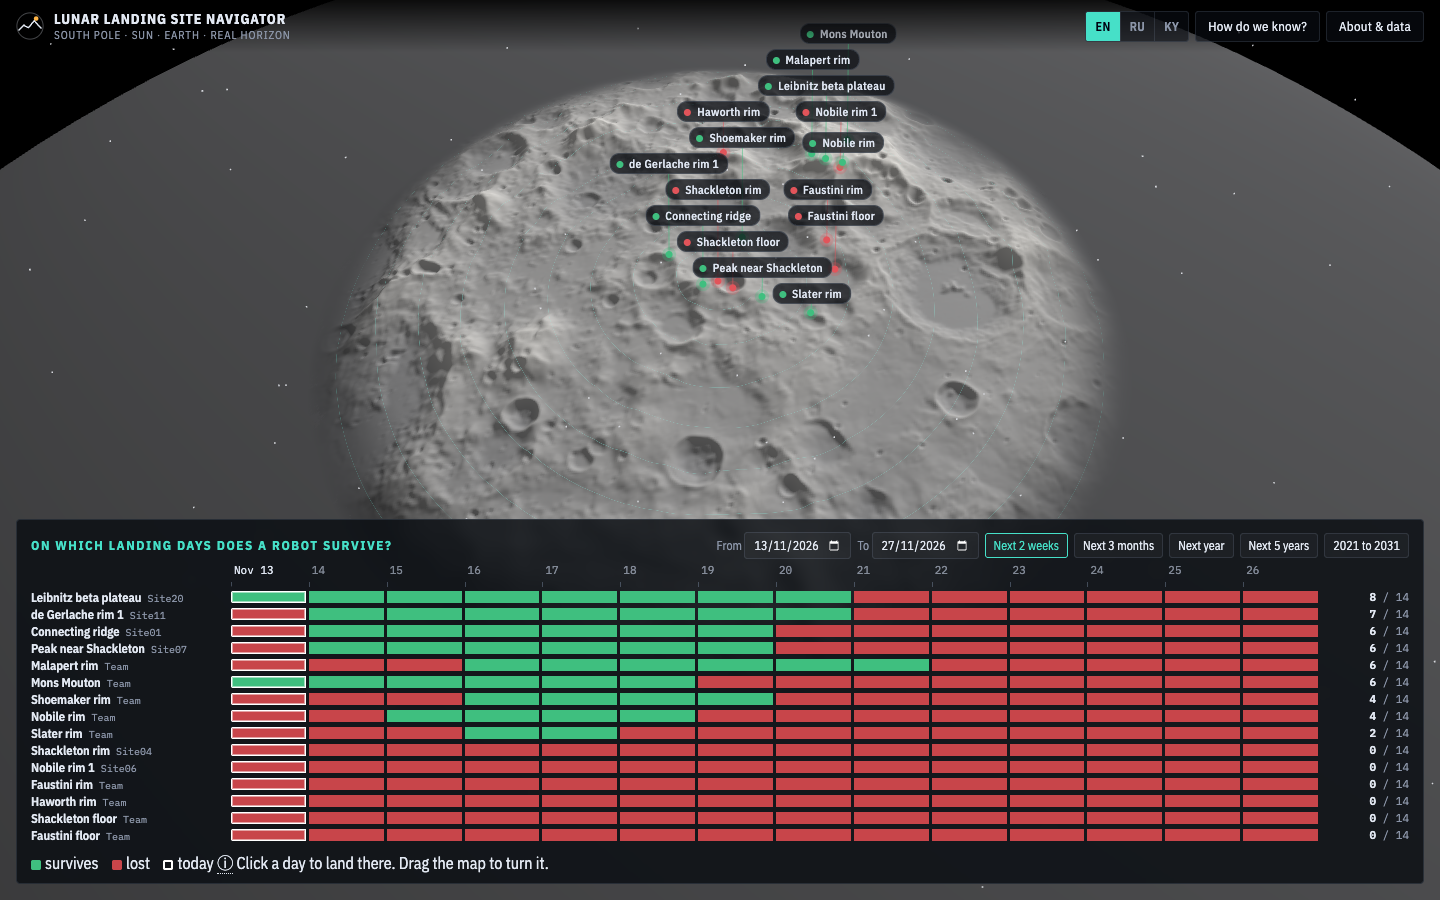
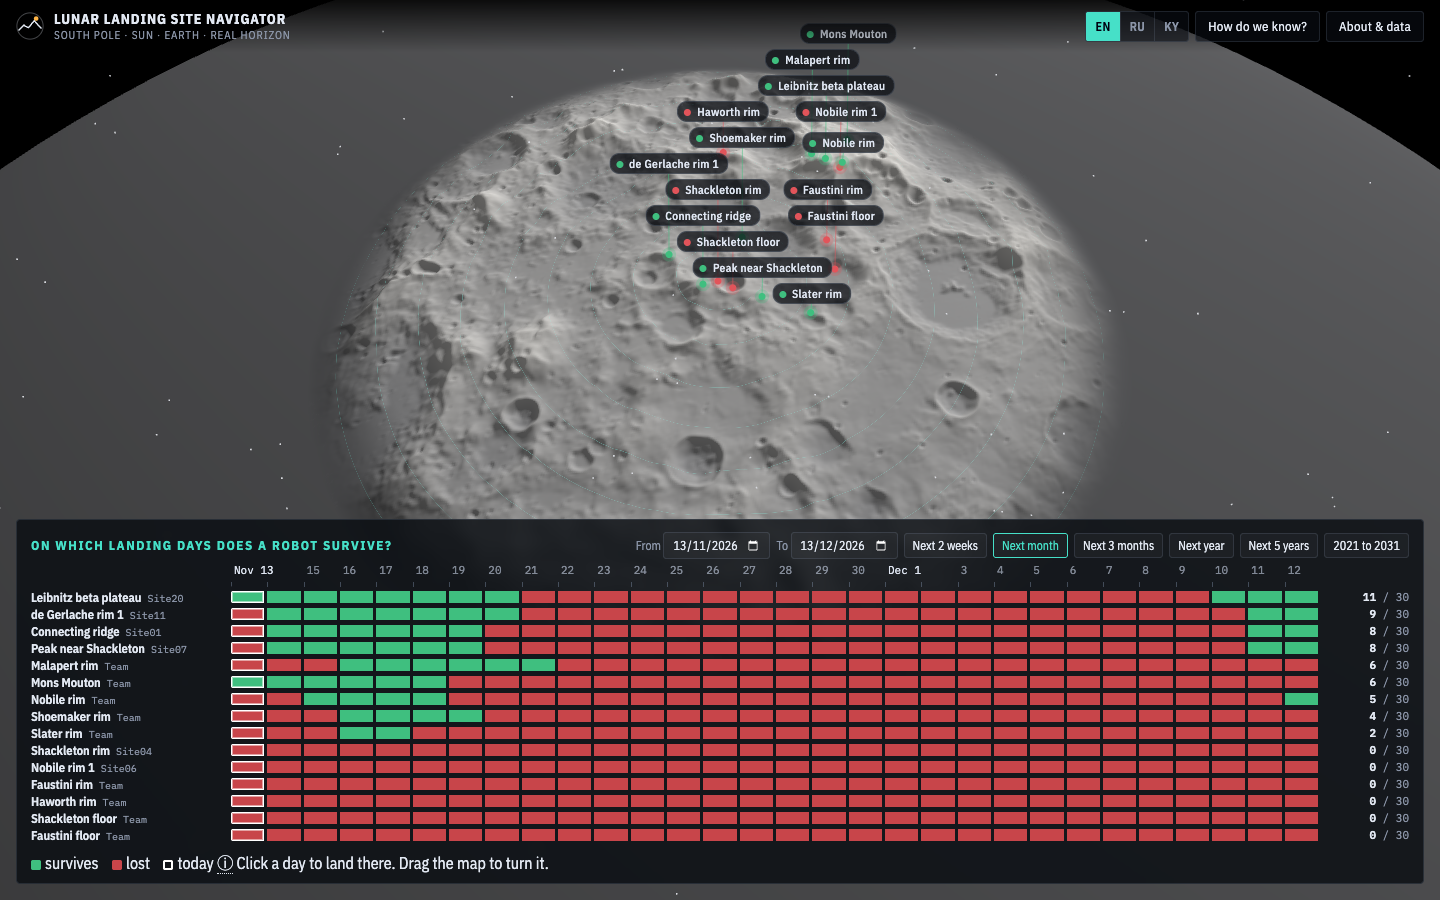
Map timeline opens on the next month; a Next month button beside two weeks, three months, a year, five years and the whole period

diff --git a/app/src/allsites.js b/app/src/allsites.js
@@ -25,14 +25,14 @@ export function allSites(root, { sites, days, p0, p1, onPick, onHover = () => {}
   const today = Math.floor(Date.now() / 1000 / DAY) * DAY, td = Math.round((today - p0) / DAY);
   const clampDay = (d) => Math.min(Math.max(d, 0), nd);
   // The day index n years after today (0.25 = three months).
-  const y = (n) => { const d = new Date(today * 1000); d.setUTCMonth(d.getUTCMonth() + n * 12); return clampDay(Math.round((d.getTime() / 1000 - p0) / DAY)); };
-  const st = { a: td, b: clampDay(td + 14), ready: false, rows: sites }; // opens on the next two weeks; the buttons widen it
+  const y = (n) => { const d = new Date(today * 1000); d.setUTCMonth(d.getUTCMonth() + Math.round(n * 12)); return clampDay(Math.round((d.getTime() / 1000 - p0) / DAY)); };
+  const st = { a: td, b: y(1 / 12), ready: false, rows: sites }; // opens on the next month; the buttons narrow or widen it
   const dayOf = (v) => Math.round((Date.parse(v + 'T00:00:00Z') / 1000 - p0) / DAY);
 
   root.innerHTML = `<div class="a-head"><h2></h2><div class="a-range">
       <label><span></span> <input type="date" id="a-from" min="${iso(p0)}" max="${iso(p0 + (nd - 1) * DAY)}"></label>
       <label><span></span> <input type="date" id="a-to" min="${iso(p0 + DAY)}" max="${iso(p0 + nd * DAY)}"></label>
-      <button data-y="2w"></button><button data-y="0.25"></button><button data-y="1"></button><button data-y="5"></button><button data-y="0"></button></div></div>
+      <button data-y="2w"></button><button data-y="1m"></button><button data-y="0.25"></button><button data-y="1"></button><button data-y="5"></button><button data-y="0"></button></div></div>
     <div class="a-row a-axis"><span></span><canvas></canvas><span></span></div>
     <ol id="sites"></ol>
     <p class="v-key"><i class="ok"></i><span></span> <i class="bad"></i><span></span> <i class="cur"></i><span></span> <span class="tip" tabindex="0">ⓘ</span> <span class="a-hint"></span></p>
@@ -133,8 +133,8 @@ export function allSites(root, { sites, days, p0, p1, onPick, onHover = () => {}
     const [lf, lt] = root.querySelectorAll('.a-range label span'); lf.textContent = L('aFrom'); lt.textContent = L('aTo');
     from.value = iso(p0 + st.a * DAY); to.value = iso(p0 + st.b * DAY);
     for (const b of root.querySelectorAll('.a-range button')) {
-      const k = b.dataset.y, n = +k, r = k === '2w' ? [td, clampDay(td + 14)] : n ? [td, y(n)] : [0, nd];
-      b.textContent = L(k === '2w' ? 'a2w' : n === 0.25 ? 'a3m' : n === 1 ? 'a1y' : n === 5 ? 'a5y' : 'aAll');
+      const k = b.dataset.y, n = +k, r = k === '2w' ? [td, clampDay(td + 14)] : k === '1m' ? [td, y(1 / 12)] : n ? [td, y(n)] : [0, nd];
+      b.textContent = L(k === '2w' ? 'a2w' : k === '1m' ? 'a1m' : n === 0.25 ? 'a3m' : n === 1 ? 'a1y' : n === 5 ? 'a5y' : 'aAll');
       b.classList.toggle('on', r[0] === st.a && r[1] === st.b);
       b.onclick = () => { [st.a, st.b] = r; redraw(); };
     }

diff --git a/app/i18n.js b/app/i18n.js
@@ -3,6 +3,7 @@
 (function (root) {
   const S = {
   "en": {
+    "a1m": "Next month",
     "a2w": "Next 2 weeks",
     "a3m": "Next 3 months",
     "a1y": "Next year",
@@ -76,6 +77,7 @@
     "vYear": "year"
   },
   "ru": {
+    "a1m": "Месяц вперёд",
     "a2w": "2 недели вперёд",
     "a3m": "3 месяца вперёд",
     "a1y": "Год вперёд",
@@ -149,6 +151,7 @@
     "vYear": "год"
   },
   "ky": {
+    "a1m": "Бир ай алдыга",
     "a2w": "2 жума алдыга",
     "a3m": "3 ай алдыга",
     "a1y": "Бир жыл алдыга",

diff --git a/README.md b/README.md
@@ -12,7 +12,7 @@ NASA Space Apps Challenge 2026, challenge "Lunar Landing Site Navigator". Team *
 ## What it does
 
 1. **A 3D map of the Moon's south pole** that you can drag to turn, with fifteen sites: six from NASA's Lunar Surface Data Book and nine picked by the team on LOLA terrain (crater rims and shadowed floors).
-   Under it, **one row per site and one column per landing day**: green survives, red is lost. It opens on the next two weeks, with buttons for three months, a year, five years and the whole period; set the period yourself, from any day to any day in 2021 to 2031; the best site for that period is listed first. Click a cell to land on that site on that day.
+   Under it, **one row per site and one column per landing day**: green survives, red is lost. It opens on the next month, with buttons for two weeks, three months, a year, five years and the whole period; set the period yourself, from any day to any day in 2021 to 2031; the best site for that period is listed first. Click a cell to land on that site on that day.
 2. **You fly down and stand on it**, 2 m above the real LOLA terrain. The Sun and Earth sit at their true positions. Press ▶ to watch 14 days pass.
 3. **One panel gives the answer** for a landing on the chosen day:
    - THE ROBOT SURVIVED or THE ROBOT WAS LOST, and one sentence of why;
